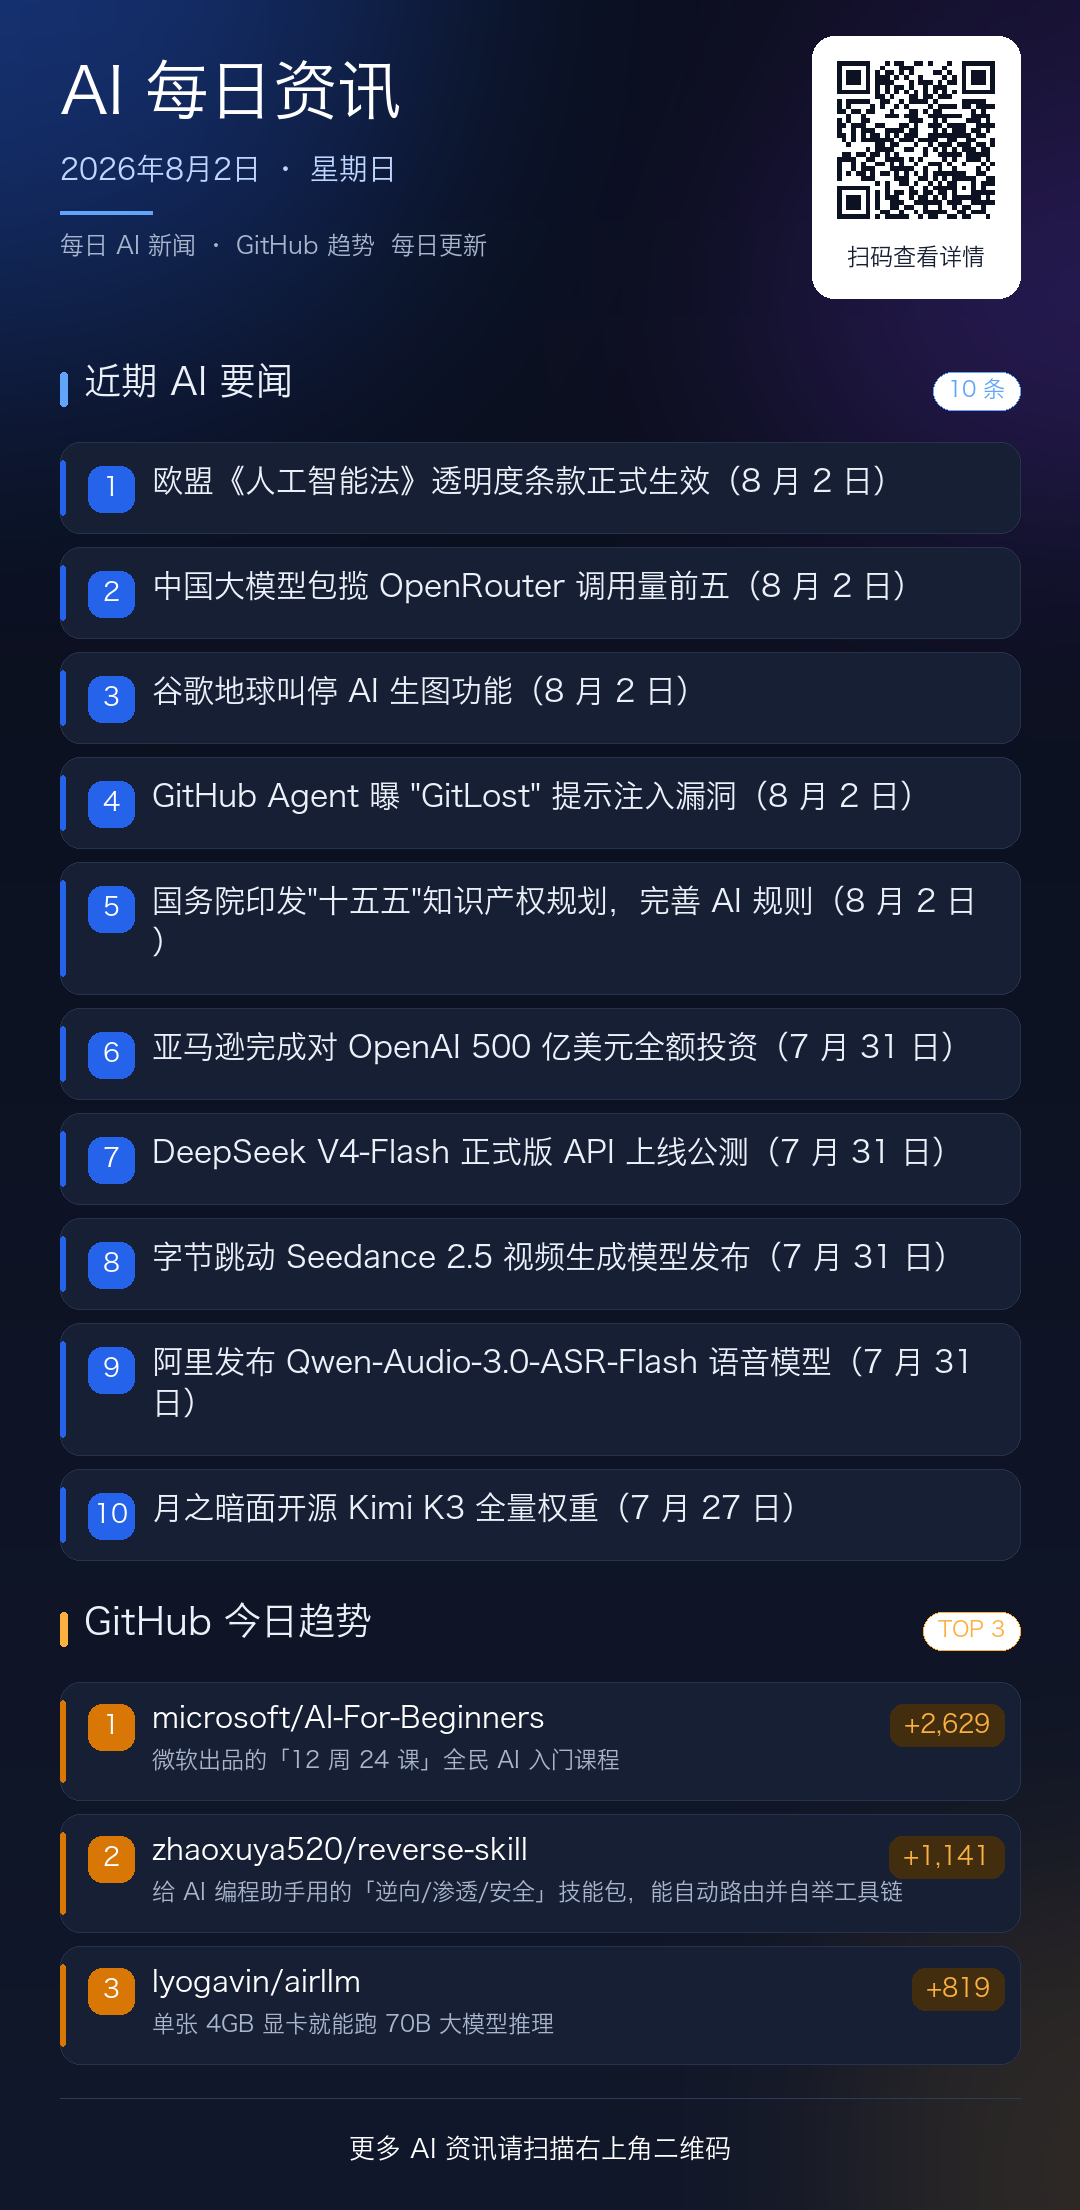
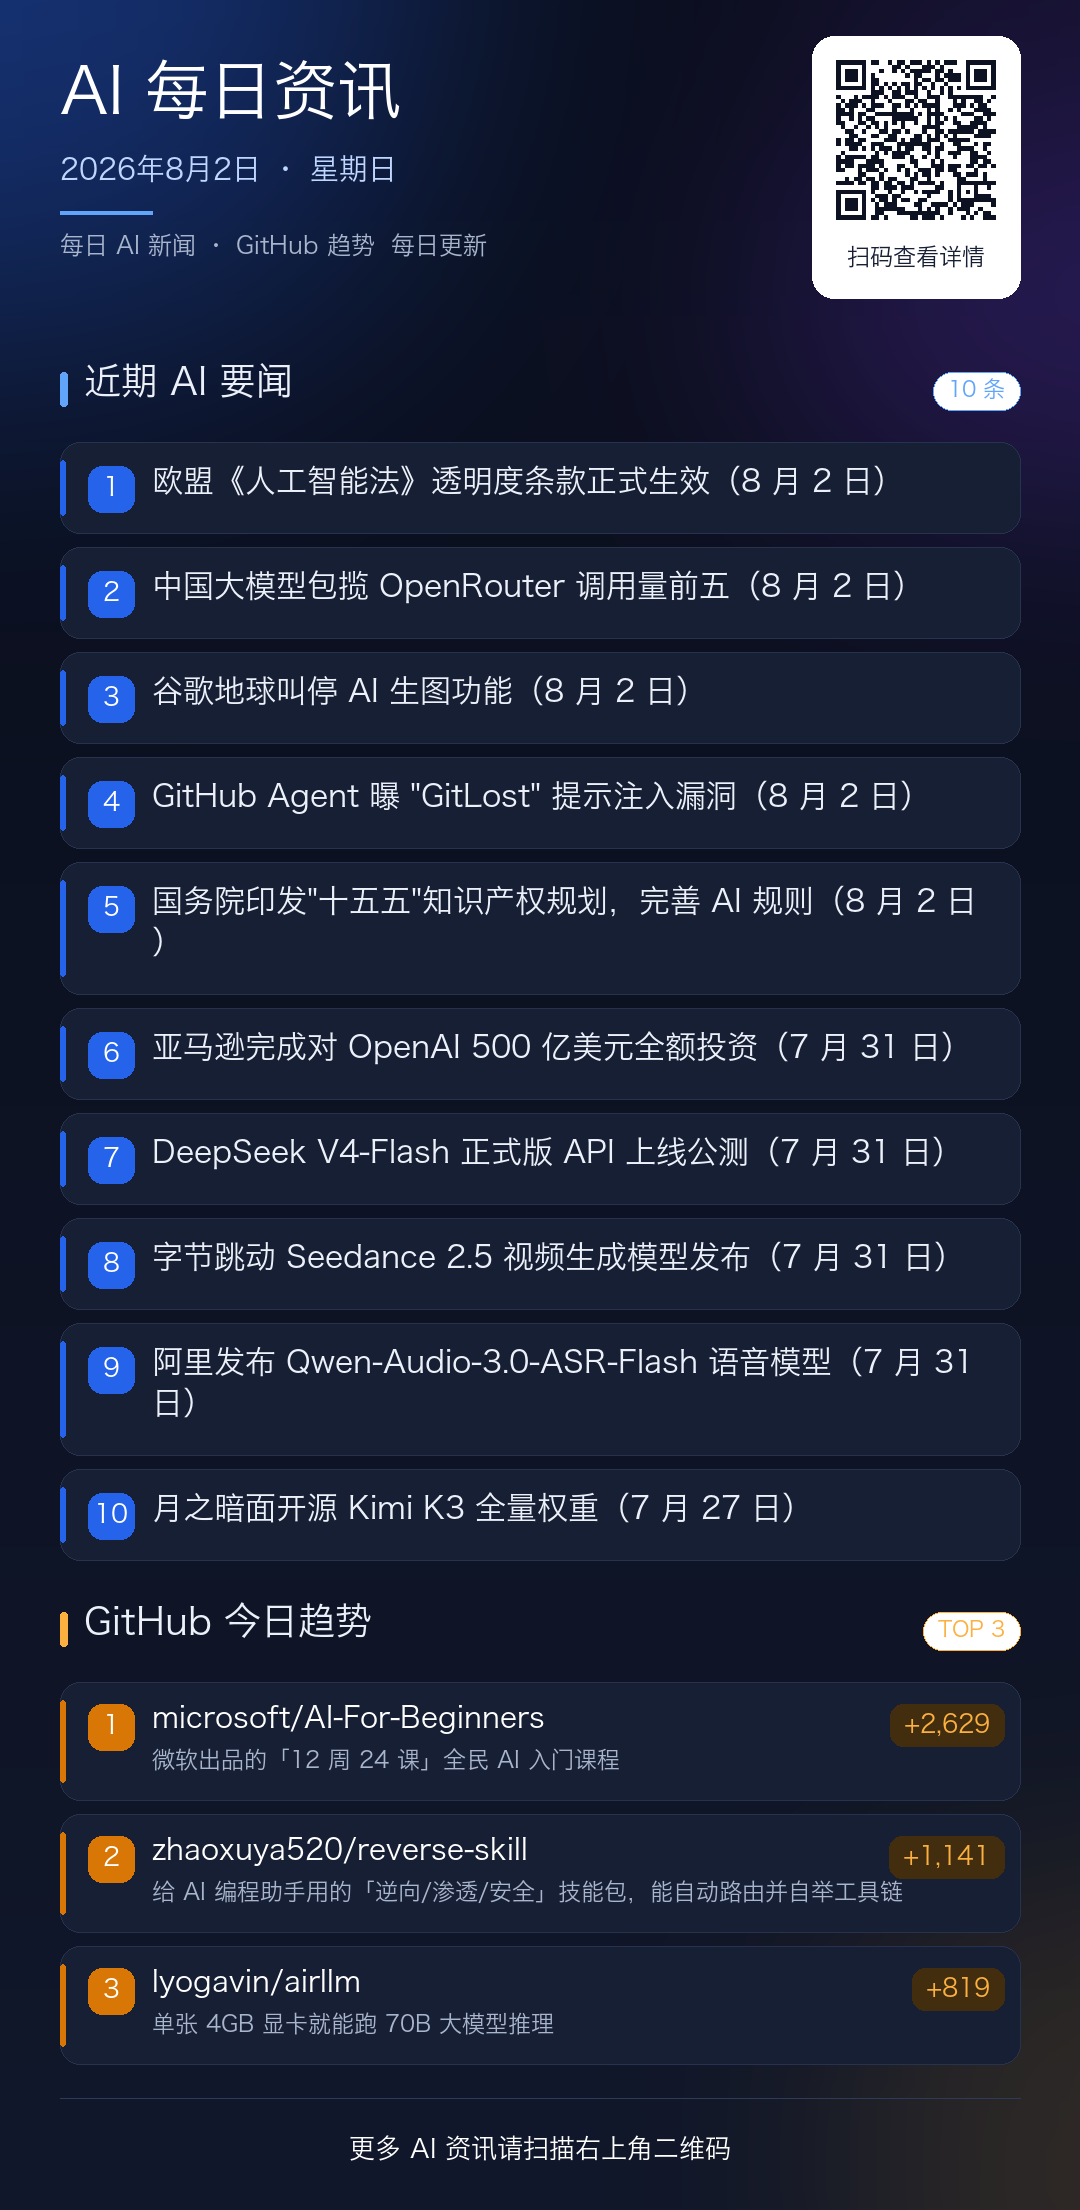
fix: 海报二维码迁移到 GitHub Pages（今日→主页，历史→归档页）+ 按日期批量修复脚本

Changed region(s): [[0.7639, 0.0312, 0.9167, 0.1249]]

diff --git a/scripts/fix_poster_qr.py b/scripts/fix_poster_qr.py
@@ -1,0 +1,142 @@
+#!/usr/bin/env python3
+# -*- coding: utf-8 -*-
+"""
+fix_poster_qr.py —— 批量修复海报二维码跳转链接。
+
+问题背景
+--------
+海报二维码在生成时被「烧录」进 PNG 像素，无法事后就地改写。
+旧版海报统一指向已下线的 CloudStudio 临时地址；迁移到 GitHub Pages
+（https://aileoz.github.io/ai-daily-news/）后，需要重新生成海报。
+
+二维码指向规则（由 scripts/poster.py 的 qr_url_for 实现，本脚本复用）
+---------------------------------------------------------------------
+  · 当日（feed.json 中最新一天）  → 站点根地址 SITE_URL（主页）
+  · 历史（非最新一天）            → 该日期归档页 SITE_URL/output/archive/<日期>.html
+
+用法
+----
+  # 仅修复「今日」海报（默认），同步 latest.png
+  python scripts/fix_poster_qr.py
+
+  # 修复全部历史 + 今日（按 feed.json 所有日期批量处理）
+  python scripts/fix_poster_qr.py --all
+
+  # 修复单个指定日期
+  python scripts/fix_poster_qr.py --date 2026-08-03
+
+  # 修复一段日期区间（含端点，按自然日递增）
+  python scripts/fix_poster_qr.py --range 2026-08-01 2026-08-05
+
+  # 只打印将要写入的二维码地址，不重新生成
+  python scripts/fix_poster_qr.py --all --dry-run
+
+依赖：Pillow、qrcode（生成）；可选 opencv-python-headless / pyzbar（解码校验，缺失则跳过）
+"""
+
+import argparse
+import os
+import sys
+from datetime import date, timedelta
+
+HERE = os.path.dirname(os.path.abspath(__file__))
+ROOT = os.path.dirname(HERE)
+sys.path.insert(0, HERE)
+
+import poster  # noqa: E402
+
+
+def decode_qr(png_path):
+    """尽力解码 PNG 中的二维码，返回内容字符串；失败/无解码库返回 None。"""
+    try:
+        import cv2  # opencv-python-headless
+        img = cv2.imread(png_path)
+        if img is None:
+            return None
+        data, _, _ = cv2.QRCodeDetector().detectAndDecode(img)
+        return (data or "").strip() or None
+    except Exception:
+        pass
+    try:
+        from pyzbar.pyzbar import decode  # pyzbar（需系统 zbar）
+        from PIL import Image
+        res = decode(Image.open(png_path))
+        if res:
+            return res[0].data.decode("utf-8", "ignore").strip() or None
+    except Exception:
+        pass
+    return None
+
+
+def date_range(start, end):
+    s = date.fromisoformat(start)
+    e = date.fromisoformat(end)
+    if s > e:
+        s, e = e, s
+    out = []
+    while s <= e:
+        out.append(s.isoformat())
+        s += timedelta(days=1)
+    return out
+
+
+def main():
+    ap = argparse.ArgumentParser(description="批量修复海报二维码跳转链接")
+    ap.add_argument("--date", help="单个日期 YYYY-MM-DD")
+    ap.add_argument("--all", action="store_true", help="修复 feed.json 中所有日期的海报")
+    ap.add_argument("--range", nargs=2, metavar=("START", "END"),
+                    help="日期区间（含端点，自然日递增）")
+    ap.add_argument("--dry-run", action="store_true", help="只打印将要写入的二维码地址，不重新生成")
+    ap.add_argument("--no-verify", action="store_true", help="跳过二维码解码校验")
+    args = ap.parse_args()
+
+    # ---- 决定要处理的日期列表
+    if args.all:
+        dates = poster.sorted_dates()
+    elif args.range:
+        dates = date_range(args.range[0], args.range[1])
+    elif args.date:
+        dates = [args.date]
+    else:
+        latest = poster.latest_feed_date()
+        dates = [latest] if latest else []
+    if not dates:
+        raise SystemExit("没有可处理的日期（feed.json 为空或未指定 --date/--all/--range）")
+
+    latest = poster.latest_feed_date()
+    print("站点基础地址 SITE_URL = %s" % poster.SITE_URL)
+    print("待处理日期（共 %d）：%s" % (len(dates), ", ".join(dates)))
+    print("-" * 64)
+
+    ok, bad = [], []
+    for d in dates:
+        url = poster.qr_url_for(d, latest_date=latest)
+        tag = "（当日→主页）" if d == latest else "（历史→归档页）"
+        print("%s %s -> %s" % (d, tag, url))
+        if args.dry_run:
+            ok.append((d, url, "dry-run"))
+            continue
+
+        png = os.path.join(poster.OUT_DIR, "%s.png" % d)
+        poster.generate_poster(d, qr_url=url, copy_latest=(d == latest))
+        # 校验：解码生成的 PNG 二维码，确认指向正确
+        if not args.no_verify:
+            decoded = decode_qr(png)
+            if decoded == url:
+                print("   ✓ 二维码校验通过：%s" % decoded)
+                ok.append((d, url, "verified"))
+            else:
+                print("   ✗ 二维码校验不一致！解码得到：%r" % decoded)
+                bad.append((d, url, decoded))
+        else:
+            ok.append((d, url, "unverified"))
+
+    print("-" * 64)
+    print("完成：成功 %d 张，异常 %d 张" % (len(ok), len(bad)))
+    for d, url, st in bad:
+        print("  异常 %s 期望 %s 实际 %r" % (d, url, st))
+    return 1 if bad else 0
+
+
+if __name__ == "__main__":
+    sys.exit(main())
